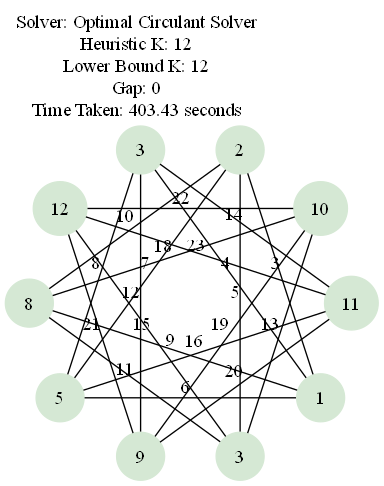
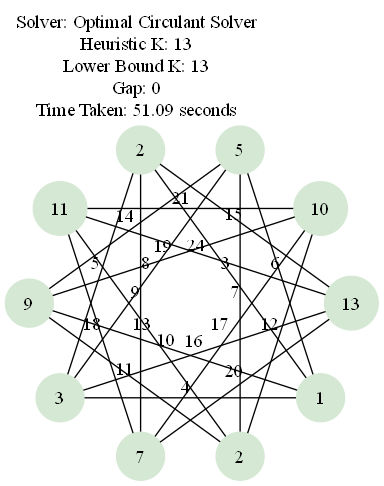
Added formula for establishing lowest k

diff --git a/src/labeling_solver.py b/src/labeling_solver.py
@@ -12,7 +12,7 @@ References:
     - ai-docs/enhancments/enhancement01_Task_1.md (solver feature roadmap)
 """
 from src.graph_generator import create_mongolian_tent_graph, generate_circulant_graph
-from src.graph_properties import calculate_lower_bound
+from src.graph_properties import calculate_lower_bound, calculate_circulant_lower_bound
 from src.constants import MAX_K_MULTIPLIER_DEFAULT, GREEDY_ATTEMPTS_DEFAULT
 from typing import Any, Tuple, Union, Dict, List, Optional, Callable
 
@@ -336,8 +336,7 @@ def find_optimal_k_labeling_circulant(
     # For now, a simple lower bound could be based on max degree or a small constant.
     # For circulant graphs, the degree is (n-1) for K_n, or (n-6) for the modified one.
     # A simple lower bound could be max_degree + 1, or 1 if no edges.
-    max_degree = max((len(adj) for adj in adjacency_list.values()), default=0)
-    k = max_degree + 1 if max_degree > 0 else 1 # A very basic lower bound
+    k = calculate_circulant_lower_bound(n, r) # Use the theoretical lower bound
 
     while True:
         print(f"Attempting to find a valid labeling for k = {k} for Circulant graph C({n}, {r})...")
@@ -374,8 +373,7 @@ def find_optimal_k_labeling_circulant(
     # For now, a simple lower bound could be based on max degree or a small constant.
     # For circulant graphs, the degree is (n-1) for K_n, or (n-6) for the modified one.
     # A simple lower bound could be max_degree + 1, or 1 if no edges.
-    max_degree = max((len(adj) for adj in adjacency_list.values()), default=0)
-    k = max_degree + 1 if max_degree > 0 else 1 # A very basic lower bound
+    k = calculate_circulant_lower_bound(n, r) # Use the theoretical lower bound
 
     while True:
         print(f"Attempting to find a valid labeling for k = {k} for Circulant graph C({n}, {r})...")

diff --git a/src/graph_properties.py b/src/graph_properties.py
@@ -3,6 +3,20 @@ import math
 from typing import Dict, List, Any, Tuple
 import collections
 
+def calculate_circulant_lower_bound(n: int, r: int) -> int:
+    """
+    Calculates the theoretical lower bound for the edge irregularity strength (es) of a circulant graph (Cn,r).
+    Formula: max{ceil((nr+2)/4), r}
+    """
+    if n <= 0 or r <= 0:
+        return 0
+
+    # Calculate the first part of the formula: ceil((n * r + 2) / 4)
+    part1 = math.ceil((n * r + 2) / 4)
+
+    # Return the maximum of part1 and r
+    return max(part1, r)
+
 
 """
 Graph property calculations for Mongolian Tent and related graphs.
